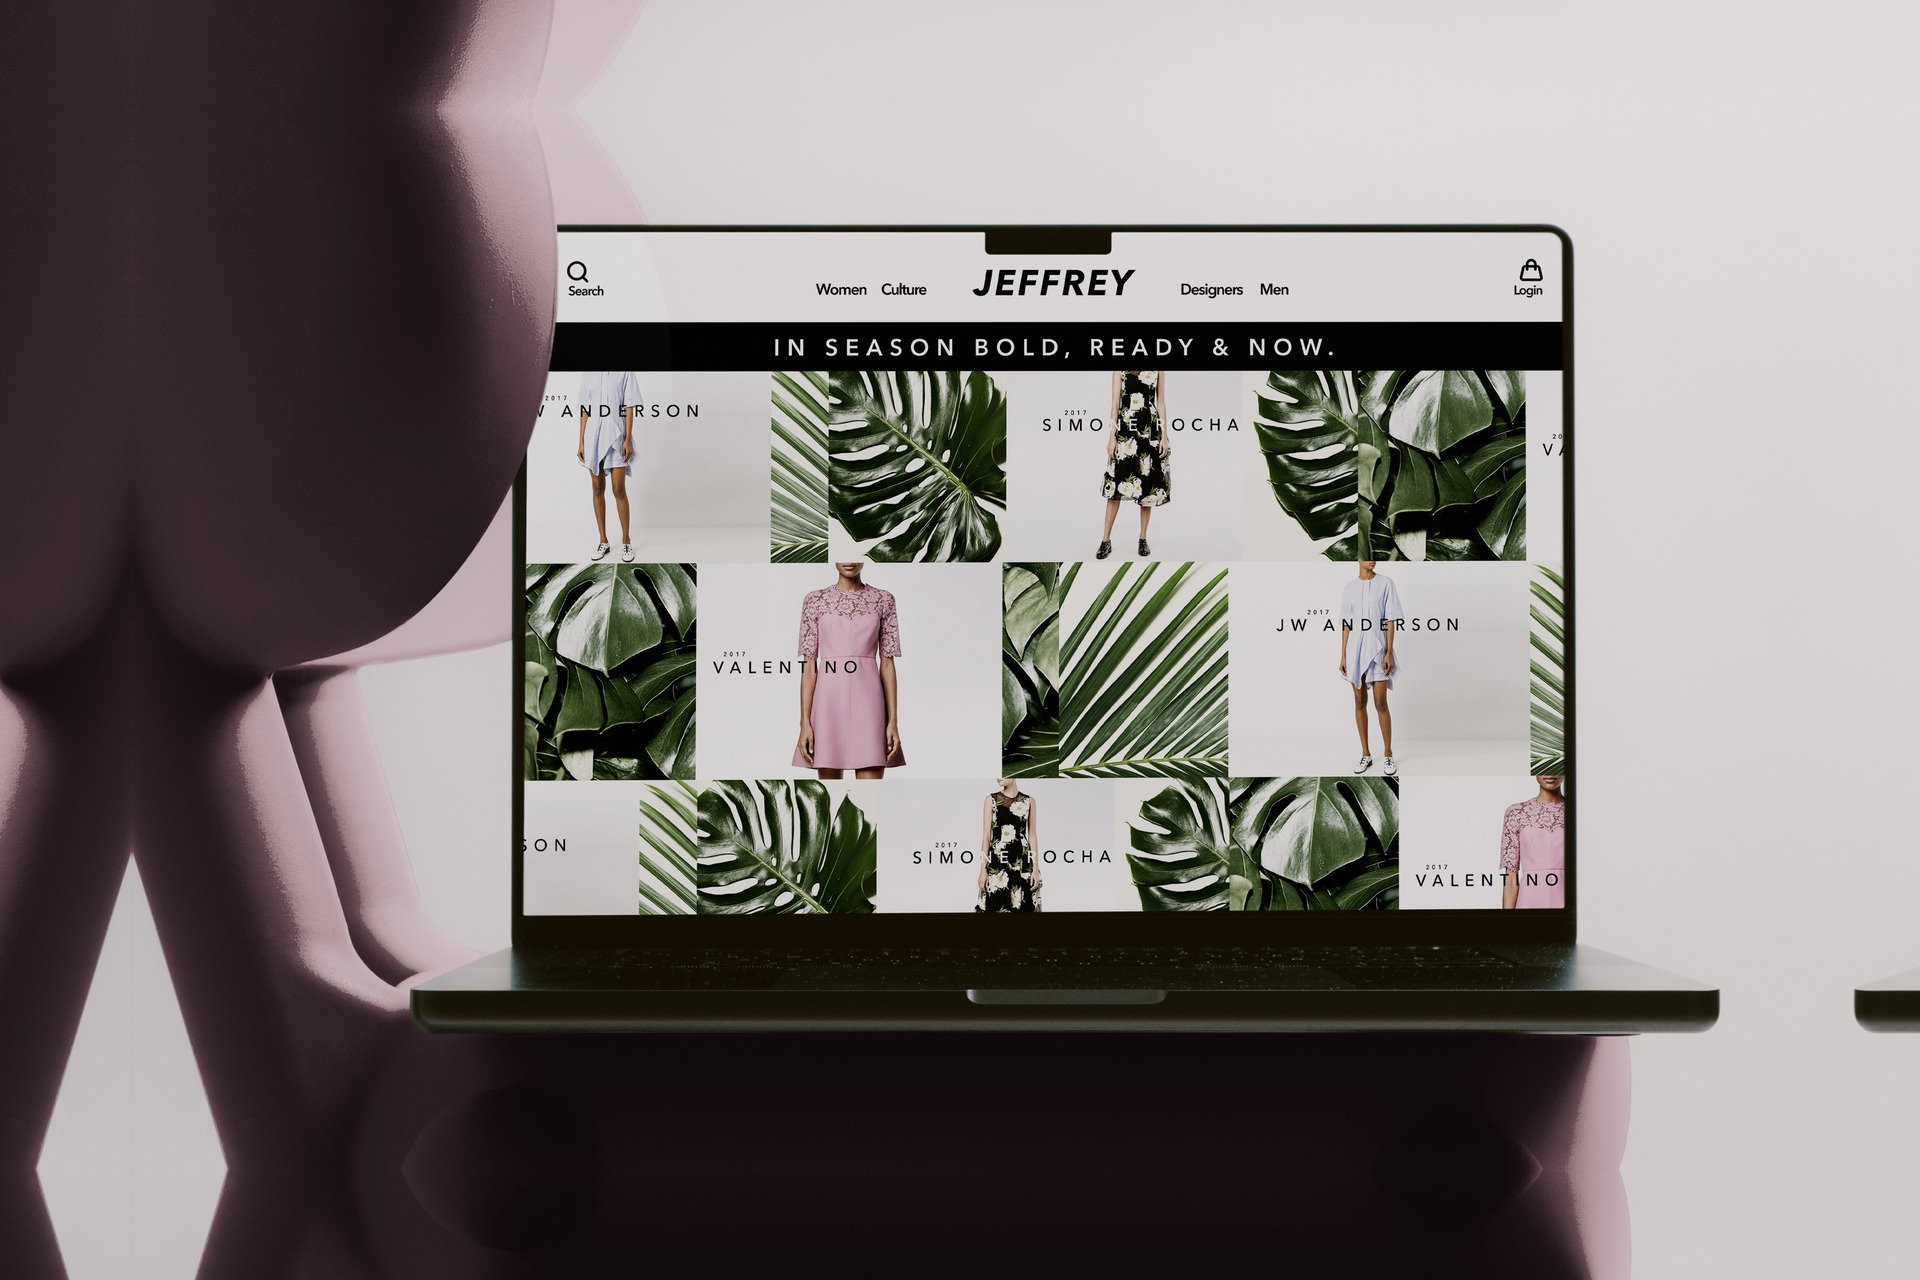
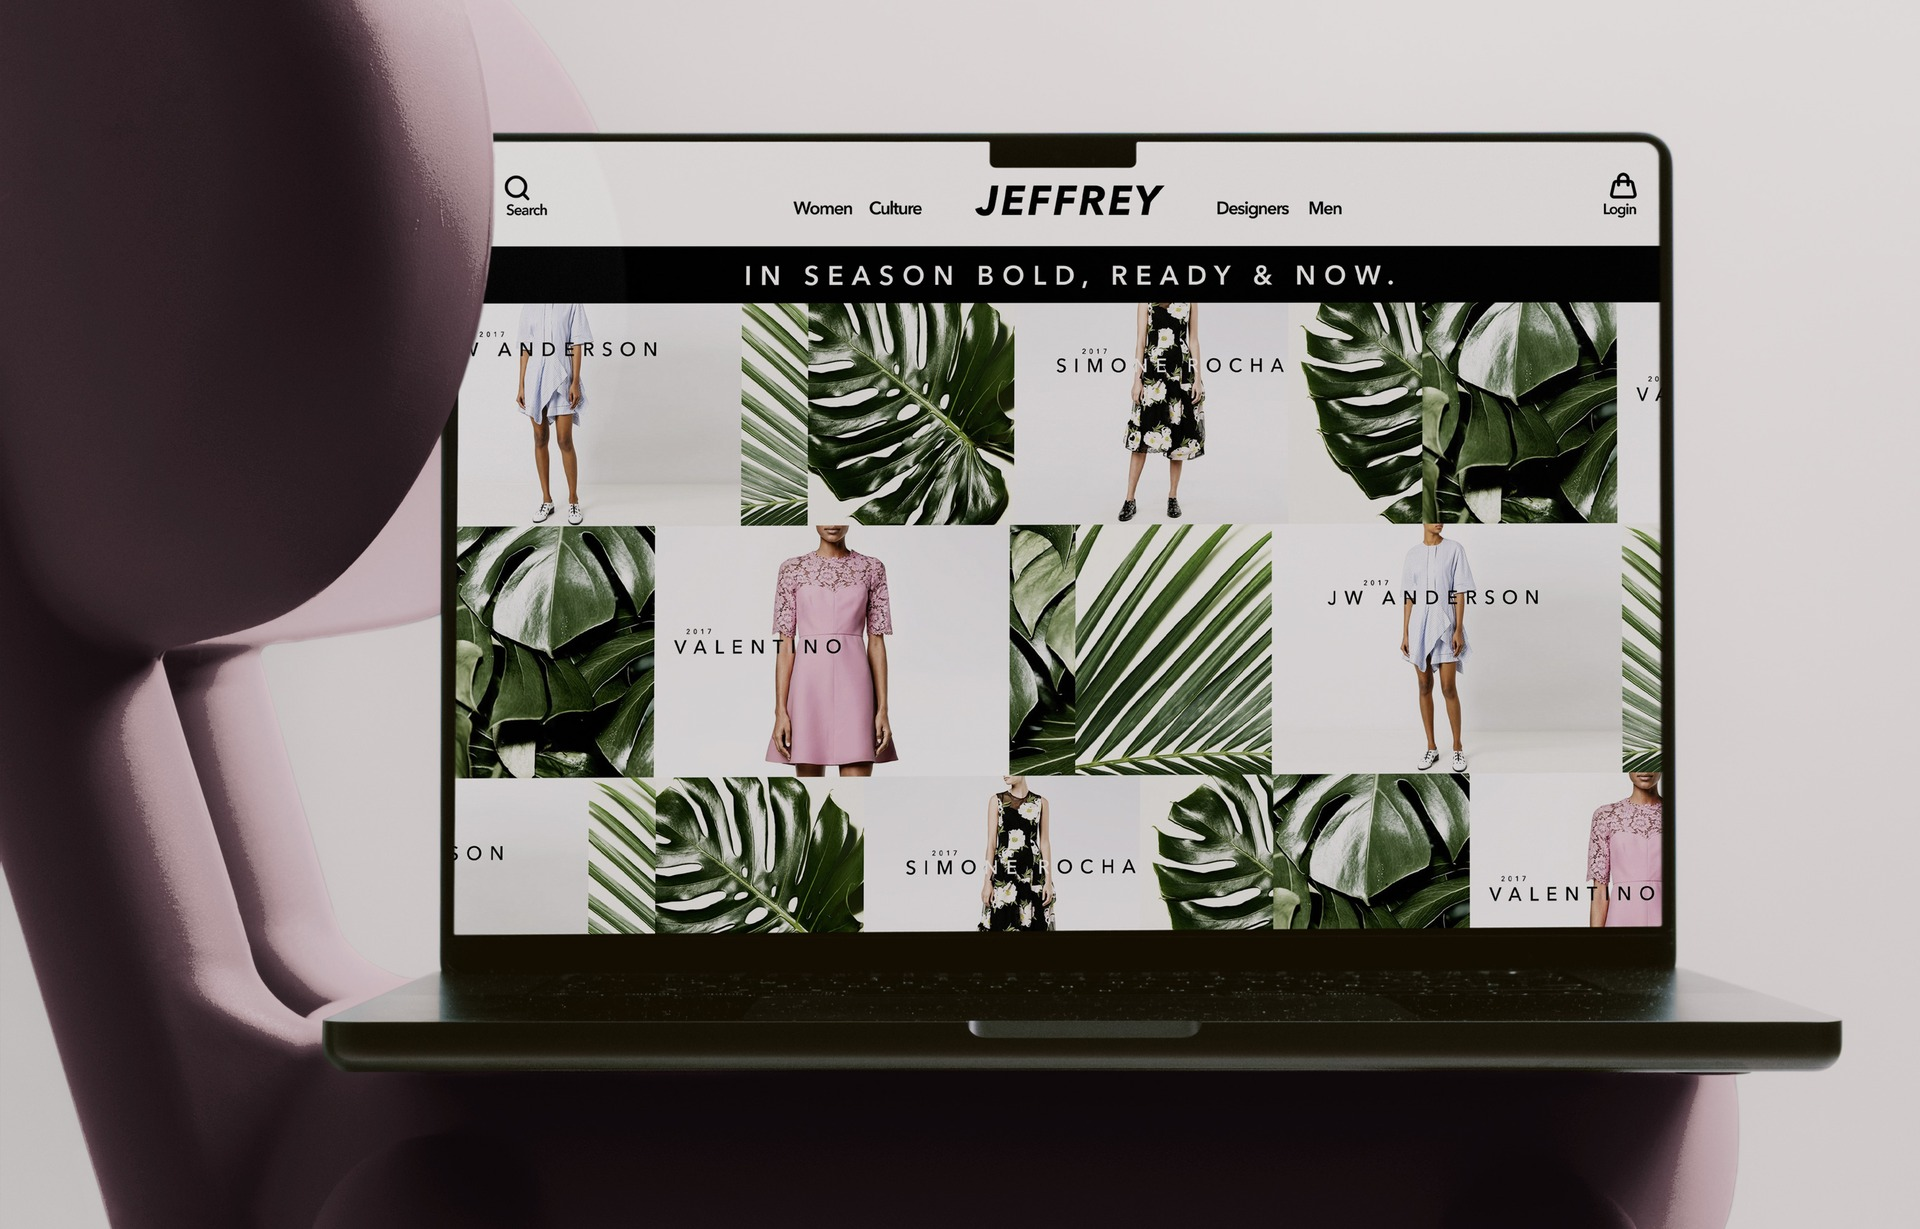
Homepage tiles: teach the card to crop less instead of faking margin
The drift is a CROP before it is a movement. The image is drawn taller
than its frame and object-fit: cover pays for that out of the WIDTH,
13.8% of it at the default 16%, and the same percentage goes whatever
ratio the tile is declared at. A photograph never misses the trimmed
edge. The laptop mockups lost the sides of the machine.

I tried to buy that margin back inside the file three ways and all
three were wrong. Stretching the edge column smeared the pink chair
into streaks. A blurred copy of the image read as a paste. Mirroring
worked while the margin fell on smooth background and duplicated the
laptop once it did not. All of it was inventing background that the
photograph does not have, and the last version showed exactly 86.2% of
the file because the content had been inset by exactly the crop.

--drift is already a per-slot override (the hero runs 20%), so the
laptop tiles run 4%: 3.8% of the width instead of 13.8%. The travel is
smaller and still there, and the driver measures its slack off the
element so nothing else needed telling. Both tiles are plain uncropped
source again at the photograph's own 1920x1229.

diff --git a/src/components/home/pressingHomeDriver.js b/src/components/home/pressingHomeDriver.js
@@ -42,11 +42,11 @@ const WORK = [
   ["A.R.C. - AI Home Inventory", "App & brand development", "/case-studies/arc", "/case-studies/hp/rhs-arc-ai-home-inventory-app-thumbnail.jpg?v=3", 1920, 1280, "arc app kitchen project selection lifestyle"],
   ["Hill Country home", "Interior design, kitchen", "/case-studies/hill-country-kitchen", "/case-studies/hp/rhs-interior-design-kitchen-modern-meets-vintage.jpg?v=3", 1920, 1280, "hill country kitchen island pendants marble wide", 0.64],
   ["Robert Rodriguez x Neiman’s", "Creative direction, design", "/case-studies/robert-rodriguez", "/case-studies/hp/rhs-robert-rodriguez-neiman-marcus-campaign-thumbnail.jpg?v=3", 1600, 1600, "neiman marcus robert rodriguez woman cream polka dot dress pink blazer orange yellow backdrop storefront window display campaign"],
-  ["Nordstrom personalization", "Design system, direction", "/case-studies/nordstrom-personalization", "/case-studies/hp/rhs-nordstrom-personalization-laptop.jpg", 1920, 1280, "the personalized nordstrom homepage open on a laptop"],
+  ["Nordstrom personalization", "Design system, direction", "/case-studies/nordstrom-personalization", "/case-studies/hp/rhs-nordstrom-personalization-laptop.jpg", 1920, 1229, "the personalized nordstrom homepage open on a laptop"],
   ["Jeffrey NYC", "Ecommerce, web design", "/case-studies/jeffrey-ecommerce", "/case-studies/hp/rhs-jeffrey-ecommerce-website-design.jpg?v=3", 1920, 1280, "jeffrey new york digital flagship hero"],
   ["Capitan Boot Co.", "Branding, design", "/case-studies/capitan-boot-co", "/case-studies/hp/rhs-capitan-boot-co-branding.jpg?v=3", 1600, 1600, "capitan boot co western original desert landscape cattle skull logo prickly pear cactus agave plants arid mountains branding campaign"],
   ["Faux Reel", "Product design, motion", "/case-studies/sizzle", "/images/thumbnails/sizzle.jpg", 800, 800, "sizzle"],
-  ["Jeffrey Spring Campaign", "Creative direction, design", "/case-studies/jeffrey-spring", "/case-studies/hp/rhs-jeffrey-spring-campaign-laptop.jpg", 1920, 1280, "the jeffrey homepage open on a laptop resting on a pink chair"],
+  ["Jeffrey Spring Campaign", "Creative direction, design", "/case-studies/jeffrey-spring", "/case-studies/hp/rhs-jeffrey-spring-campaign-laptop.jpg", 1920, 1229, "the jeffrey homepage open on a laptop resting on a pink chair"],
   ["Hill Country home", "Interior design, primary bath", "/case-studies/hill-country-bath", "/case-studies/hp/rhs-interior-design-hill-country-primary-bath.jpg?v=3", 1920, 1280, "hill country bath vanity marble globe sconces sage", 0.86],
   ["Nordstrom beauty", "Digital design, personalized", "/case-studies/nordstrom-beauty", "/case-studies/hp/rhs-nordstrom-beauty-finder-digital-design.jpg?v=3", 1610, 1073, "nordstrom beauty hub laptop homepage mockup", 0.33],
   ["Hill Country Oakworks", "Campaign direction, branding", "/case-studies/hill-country-oak", "/case-studies/hp/rhs-hill-county-oakworks-campaign-branding.jpg?v=3", 1920, 1280, "hill country oakworks outdoor banner whiskey barrels colorful background tree texas born oakcraft"],

diff --git a/src/components/home/pressing-home.css b/src/components/home/pressing-home.css
@@ -299,6 +299,21 @@
        that has quietly lost its bottom sixth. */
     transform: translate3d(0, calc(var(--drift, 16%) / -2), 0); }
 
+  /* The drift is a CROP before it is a movement: the image is drawn
+     taller than its frame and object-fit: cover pays for that out of
+     the WIDTH, 13.8% of it at the default 16%. A photograph never
+     misses the trimmed edge. A device mockup does — the laptop tiles
+     lost the sides of the machine and read as cramped in the box, and
+     no amount of recropping the file fixes it, because the same
+     percentage goes whatever ratio the tile is declared at.
+
+     4% instead, which costs 3.8% of the width. The travel is smaller
+     and still there; the driver measures its slack off the element, so
+     nothing else needs telling. Keyed on the filename because that is
+     what the two tiles have in common, and any future -laptop tile
+     wants the same treatment. */
+  .fd-it .shot img[src*="-laptop.jpg"] { --drift: 4%; }
+
   /* ── the page transition ─────────────────────────────────────────
      Three beats, each an edge moving in one direction:
 

diff --git a/src/data/image-dimensions.ts b/src/data/image-dimensions.ts
@@ -312,11 +312,11 @@ export const imageDimensions: Record<string, [number, number]> = {
   "/case-studies/hp/rhs-ivy-park-beyonce-digital-brand-launch.jpg": [1120, 747],
   "/case-studies/hp/rhs-jeffrey-ecommerce-website-design.jpg": [1920, 1280],
   "/case-studies/hp/rhs-jeffrey-spring-campaign.jpg": [1920, 1280],
-  "/case-studies/hp/rhs-jeffrey-spring-campaign-laptop.jpg": [1920, 1280],
+  "/case-studies/hp/rhs-jeffrey-spring-campaign-laptop.jpg": [1920, 1229],
   "/case-studies/hp/rhs-nordstrom-beauty-finder-digital-design.jpg": [1610, 1073],
   "/case-studies/hp/rhs-nordstrom-framework-content-design.jpg": [1920, 1280],
   "/case-studies/hp/rhs-nordstrom-personalization-design-system.jpg": [1600, 1600],
-  "/case-studies/hp/rhs-nordstrom-personalization-laptop.jpg": [1920, 1280],
+  "/case-studies/hp/rhs-nordstrom-personalization-laptop.jpg": [1920, 1229],
   "/case-studies/hp/rhs-robert-rodriguez-neiman-marcus-campaign-thumbnail.jpg": [1600, 1600],
   "/case-studies/hp/rhs-various-design-branding-art-apparel.jpg": [1920, 1280],
   "/case-studies/inspiration/0d9081db73ef35126fc6037023b9c3ce.jpg": [500, 699],
